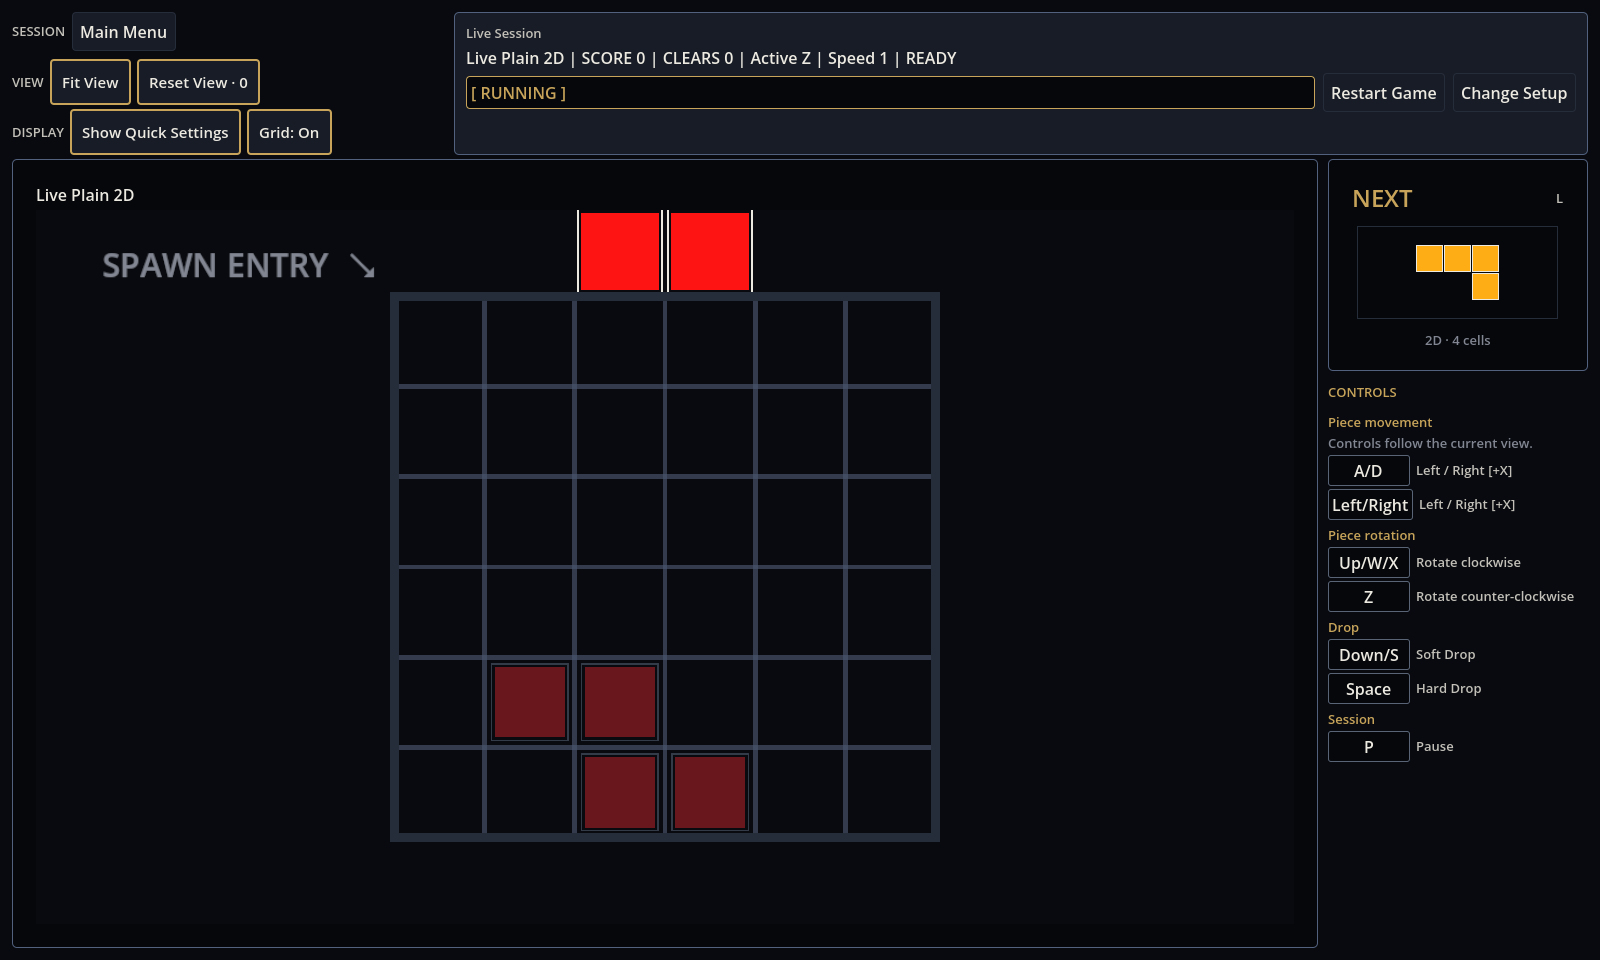
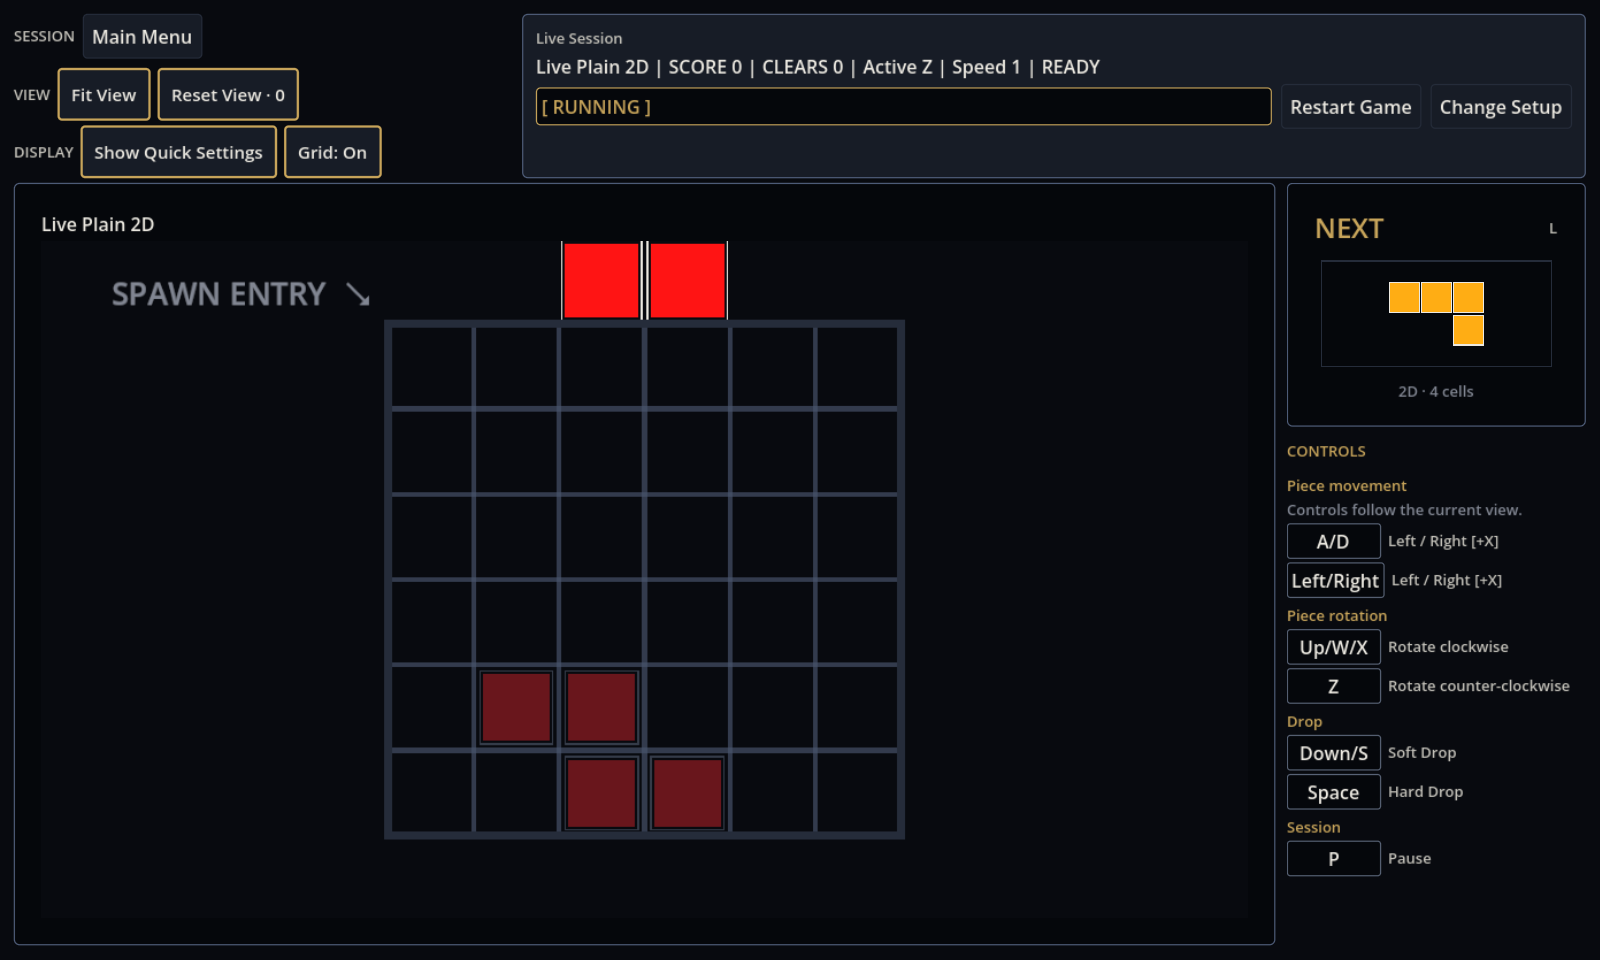
fix(godot): make runtime UI scale effective

diff --git a/docs/plans/stage_54f_integrated_visual_acceptance.md b/docs/plans/stage_54f_integrated_visual_acceptance.md
@@ -62,6 +62,8 @@ relative-control semantics, but the integrated review confirmed these Stage
 7. `display.show_w_labels`, `display.projection_strength`, and
    `display.board_detail` were exposed with inapplicable or misleading
    player-facing presentation.
+8. `display.ui_scale` updated its stored/runtime factor but did not visibly
+   resize an already-rendered live shell.
 
 Live 3D depth, stateless View Actions, the E5 cockpit hierarchy, NEXT fidelity,
 Ghost authority, and accepted movement/view semantics were not defective and
@@ -105,6 +107,10 @@ were not redesigned.
 - Player-facing labels now truthfully describe Cell Outline Strength, 4D Slice
   Labels, and Replay Object Scale. IDs, stored values, categories, reset
   ownership, and persistence schema are unchanged.
+- Runtime UI scale now applies a responsive HUD-root transform with inverse
+  logical bounds, so Large and Extra Large visibly reflow controls while the
+  transformed shell still covers the viewport. ThemeDB receives the same
+  fallback factor; Standard restores the identity transform.
 
 ### 2D spawn grammar
 
@@ -123,6 +129,7 @@ fabricating hidden cells or colliding with the active piece.
 | 4D compact/standard/detailed HUD | density-specific inspector disclosure | board remains primary and NEXT remains prominent |
 | 4D rotated | occupied board after outer camera orbit | volumes, labels, cells, and Ghost remain distinguishable |
 | High Contrast | occupied 4D plus invalid setup | non-colour identity and hierarchy retained |
+| Large/Extra Large UI | Live 2D at 1600x960; Settings at supported minimum | controls visibly enlarge; play remains coherent; Settings still scrolls |
 | Settings minimum | OS-clamped 960x660 | all rows and both resets scroll into range |
 | Settings focus reveal | focus moved directly to Reset Accessibility | scroll moved from 0 to 901 and focused control became visible |
 | Setup invalid | Advanced Game collapsed with invalid seed | global summary, Show Problem, and `Advanced Game · ERROR` are unmistakable |

diff --git a/docs/architecture/display_infrastructure.md b/docs/architecture/display_infrastructure.md
@@ -276,3 +276,13 @@ particles, and event markers rather than camera projection. The persisted
 `display.board_detail` ID is presented as cell-outline strength because its
 minimal/standard/full policy changes active, locked, and Ghost outline weight,
 not board geometry or grid density.
+
+Runtime UI scale must change rendered geometry, not merely a stored factor or
+Theme resource hint. `ReplayHud` owns the scale transform: it applies the
+canonical factor to the HUD root and inversely adjusts the root's logical
+bounds so the transformed shell continues to cover the physical viewport.
+ThemeDB receives the same fallback factor for controls that consume Godot's
+theme scale. This reflows menus, text, HUD controls, Settings scrolling, and
+focus geometry without changing the OS window, game viewport authority,
+gameplay state, camera state, or persistence schema. Returning to Standard
+restores an identity transform and the full logical viewport bounds.

diff --git a/docs/BACKLOG.md b/docs/BACKLOG.md
@@ -232,7 +232,9 @@ a placeholder authority record in advance.
 - [x] The E5 display-setting findings are closed without changing setting IDs
   or persistence schema: runtime UI contexts now filter inapplicable quick
   settings, and player-facing labels describe cell-outline strength, 4D slice
-  labels, and replay-object scale truthfully.
+  labels, and replay-object scale truthfully. The same audit also corrected
+  runtime UI scale so it visibly reflows the shell instead of changing only a
+  stored factor.
 - [x] Supported-small-window Settings reachability is repaired: content and
   both reset actions scroll into range, and keyboard focus reveals an
   off-screen target instead of remaining stranded.

diff --git a/docs/design/screenshots/stage_54f_integrated_acceptance/README.md b/docs/design/screenshots/stage_54f_integrated_acceptance/README.md
@@ -36,6 +36,7 @@ candidate. They are evidence for review, not pixel-diff test oracles.
 | `after_live_4d_1920x1080.png` | larger desktop window |
 | `after_settings_960x640.png` | Settings at supported minimum |
 | `after_settings_focus_bottom_960x640.png` | keyboard focus revealed the bottom reset action |
+| `after_settings_large_ui_960x640.png` | Extra Large UI reflow at the supported minimum |
 | `after_setup_invalid_1600x960.png` | ordinary invalid summary and collapsed error disclosure |
 | `after_setup_invalid_hc_1600x960.png` | the same invalid state under High Contrast |
 
